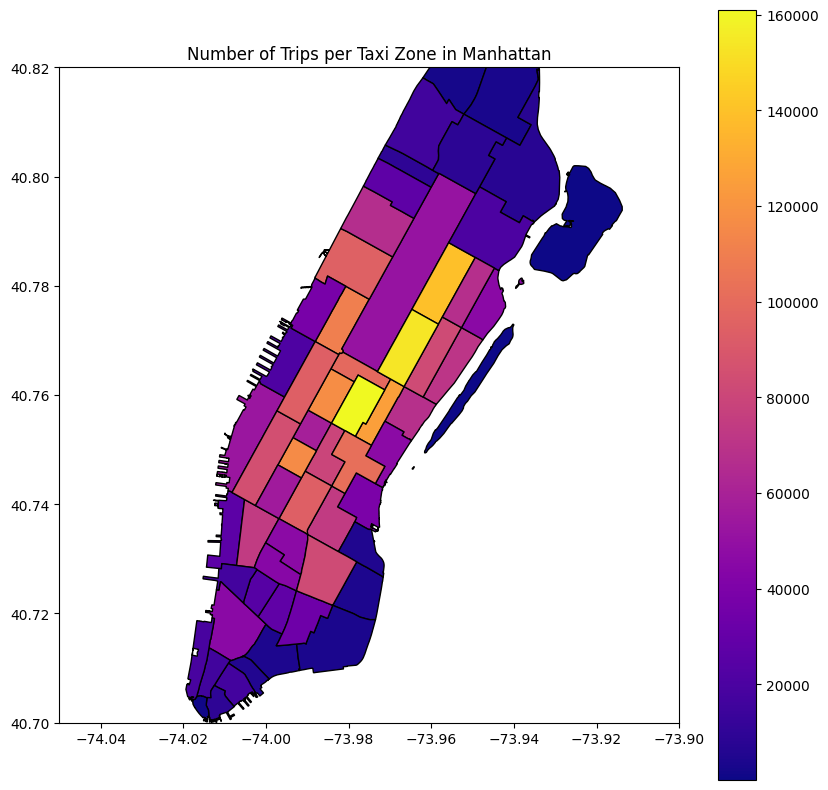
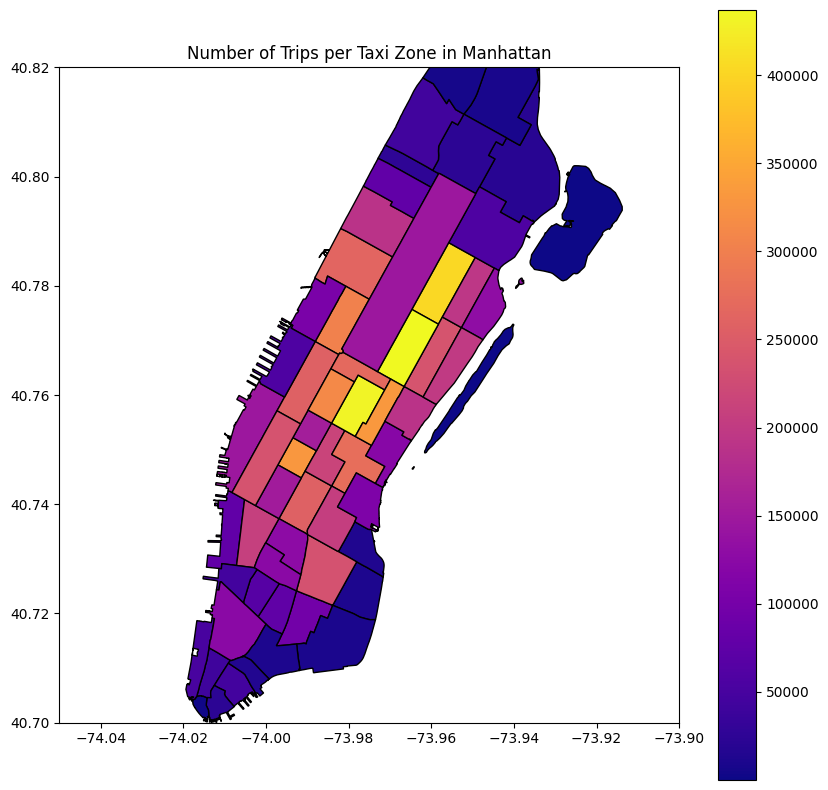
DATA-4945: complete lesson 8 partitions and backfills

diff --git a/dagster_university/dagster_essentials/dagster_essentials/assets/metrics.py b/dagster_university/dagster_essentials/dagster_essentials/assets/metrics.py
@@ -7,6 +7,7 @@ import pandas as pd
 import matplotlib.pyplot as plt
 
 from dagster_essentials.assets import constants
+from dagster_essentials.partitions import weekly_partition
 
 @dg.asset(
     deps=["taxi_trips", "taxi_zones"]
@@ -57,81 +58,48 @@ def manhattan_map() -> None:
     plt.savefig(constants.MANHATTAN_MAP_FILE_PATH, format="png", bbox_inches="tight")
     plt.close(fig)
 
-# @dg.asset(
-#     deps=["taxi_trips"],
-# )
-# def trips_by_week() -> None:
-#     query = """
-#         select
-#             (date_trunc('week', pickup_datetime) + interval 6 day)::date as period,
-#             count(*) as num_trips,
-#             sum(passenger_count) as passenger_count,
-#             round(sum(total_amount), 2) as total_amount,
-#             round(sum(trip_distance), 2) as trip_distance
-#         from trips
-#         where pickup_datetime >= '2023-03-01'
-#         group by period
-#         order by period
-#     """
-
-#     conn = backoff(
-#         fn=duckdb.connect,
-#         retry_on=(RuntimeError, duckdb.IOException),
-#         kwargs={
-#             "database": os.getenv("DUCKDB_DATABASE"),
-#         },
-#         max_retries=10,
-#     )
-#     trips_by_week = conn.execute(query).fetch_df()
-
-#     with open(constants.TRIPS_BY_WEEK_FILE_PATH, 'w') as output_file:
-#         output_file.write(trips_by_week.to_csv())
-    
-#Dagster solution
 @dg.asset(
-    deps=["taxi_trips"]
+    deps=["taxi_trips"],
+    partitions_def=weekly_partition
 )
-def trips_by_week(database: DuckDBResource) -> None:
+def trips_by_week(context: dg.AssetExecutionContext, database: DuckDBResource) -> None:
     """
-      A table of the number of taxi trips by week
+      The number of trips per week, aggregated by week.
     """
 
-    current_date = datetime.strptime(constants.START_DATE, constants.DATE_FORMAT)
-    end_date = datetime.strptime(constants.END_DATE, constants.DATE_FORMAT)
+    period_to_fetch = context.partition_key
 
-    result = pd.DataFrame()
+    # get all trips for the week
+    query = f"""
+        select vendor_id, total_amount, trip_distance, passenger_count
+        from trips
+        where pickup_datetime >= '{period_to_fetch}'
+            and pickup_datetime < '{period_to_fetch}'::date + interval '1 week'
+    """
 
-    while current_date < end_date:
-        current_date_str = current_date.strftime(constants.DATE_FORMAT)
-        query = f"""
-            select
-                vendor_id, total_amount, trip_distance, passenger_count
-            from trips
-            where date_trunc('week', pickup_datetime) = date_trunc('week', '{current_date_str}'::date)
-        """
+    with database.get_connection() as conn:
+        data_for_month = conn.execute(query).fetch_df()
 
-        with database.get_connection() as conn:
-            data_for_week = conn.execute(query).fetch_df()
-
-        aggregate = data_for_week.agg({
-            "vendor_id": "count",
-            "total_amount": "sum",
-            "trip_distance": "sum",
-            "passenger_count": "sum"
-        }).rename({"vendor_id": "num_trips"}).to_frame().T # type: ignore
-
-        aggregate["period"] = current_date
-
-        result = pd.concat([result, aggregate])
-
-        current_date += timedelta(days=7)
+    aggregate = data_for_month.agg({
+        "vendor_id": "count",
+        "total_amount": "sum",
+        "trip_distance": "sum",
+        "passenger_count": "sum"
+    }).rename({"vendor_id": "num_trips"}).to_frame().T # type: ignore
 
     # clean up the formatting of the dataframe
-    result['num_trips'] = result['num_trips'].astype(int)
-    result['passenger_count'] = result['passenger_count'].astype(int)
-    result['total_amount'] = result['total_amount'].round(2).astype(float)
-    result['trip_distance'] = result['trip_distance'].round(2).astype(float)
-    result = result[["period", "num_trips", "total_amount", "trip_distance", "passenger_count"]]
-    result = result.sort_values(by="period")
+    aggregate["period"] = period_to_fetch
+    aggregate['num_trips'] = aggregate['num_trips'].astype(int)
+    aggregate['passenger_count'] = aggregate['passenger_count'].astype(int)
+    aggregate['total_amount'] = aggregate['total_amount'].round(2).astype(float)
+    aggregate['trip_distance'] = aggregate['trip_distance'].round(2).astype(float)
+    aggregate = aggregate[["period", "num_trips", "total_amount", "trip_distance", "passenger_count"]]
 
-    result.to_csv(constants.TRIPS_BY_WEEK_FILE_PATH, index=False)
+    try:
+        # If the file already exists, append to it, but replace the existing month's data
+        existing = pd.read_csv(constants.TRIPS_BY_WEEK_FILE_PATH)
+        existing = existing[existing["period"] != period_to_fetch]
+        existing = pd.concat([existing, aggregate]).sort_values(by="period")
+        existing.to_csv(constants.TRIPS_BY_WEEK_FILE_PATH, index=False)
+    except FileNotFoundError:
+        aggregate.to_csv(constants.TRIPS_BY_WEEK_FILE_PATH, index=False)

diff --git a/dagster_university/dagster_essentials/dagster_essentials/assets/trips.py b/dagster_university/dagster_essentials/dagster_essentials/assets/trips.py
@@ -1,20 +1,28 @@
 import requests
+
 from dagster_essentials.assets import constants
+from dagster_essentials.partitions import monthly_partition
+
 from dagster_duckdb import DuckDBResource
 import dagster as dg
 
-@dg.asset
-def taxi_trips_file() -> None:
-    """
+@dg.asset(
+    partitions_def=monthly_partition
+)
+def taxi_trips_file(context: dg.AssetExecutionContext) -> None:
+  """
       The raw parquet files for the taxi trips dataset. Sourced from the NYC Open Data portal.
-    """
-    month_to_fetch = '2023-03'
-    raw_trips = requests.get(
-        f"https://d37ci6vzurychx.cloudfront.net/trip-data/yellow_tripdata_{month_to_fetch}.parquet"
-    )
+  """
 
-    with open(constants.TAXI_TRIPS_TEMPLATE_FILE_PATH.format(month_to_fetch), "wb") as output_file:
-        output_file.write(raw_trips.content)
+  partition_date_str = context.partition_key
+  month_to_fetch = partition_date_str[:-3]
+
+  raw_trips = requests.get(
+      f"https://d37ci6vzurychx.cloudfront.net/trip-data/yellow_tripdata_{month_to_fetch}.parquet"
+  )
+
+  with open(constants.TAXI_TRIPS_TEMPLATE_FILE_PATH.format(month_to_fetch), "wb") as output_file:
+      output_file.write(raw_trips.content)
 
 @dg.asset
 def taxi_zones_file() -> None:
@@ -29,27 +37,32 @@ def taxi_zones_file() -> None:
         output_file.write(raw_taxi_zones.content)    
 
 @dg.asset(
-    deps=["taxi_trips_file"]
+    deps=["taxi_trips_file"],
+    partitions_def=monthly_partition
 )
-def taxi_trips(database: DuckDBResource) -> None:
+def taxi_trips(context: dg.AssetExecutionContext, database: DuckDBResource) -> None:
     """
       The raw taxi trips dataset, loaded into a DuckDB database
     """
-    query = """
-        create or replace table trips as (
-          select
-            VendorID as vendor_id,
-            PULocationID as pickup_zone_id,
-            DOLocationID as dropoff_zone_id,
-            RatecodeID as rate_code_id,
-            payment_type as payment_type,
-            tpep_dropoff_datetime as dropoff_datetime,
-            tpep_pickup_datetime as pickup_datetime,
-            trip_distance as trip_distance,
-            passenger_count as passenger_count,
-            total_amount as total_amount
-          from 'data/raw/taxi_trips_2023-03.parquet'
-        );
+
+    partition_date_str = context.partition_key
+    month_to_fetch = partition_date_str[:-3]
+
+    query = f"""
+      create table if not exists trips (
+        vendor_id integer, pickup_zone_id integer, dropoff_zone_id integer,
+        rate_code_id double, payment_type integer, dropoff_datetime timestamp,
+        pickup_datetime timestamp, trip_distance double, passenger_count double,
+        total_amount double, partition_date varchar
+      );
+
+      delete from trips where partition_date = '{month_to_fetch}';
+
+      insert into trips
+      select
+        VendorID, PULocationID, DOLocationID, RatecodeID, payment_type, tpep_dropoff_datetime,
+        tpep_pickup_datetime, trip_distance, passenger_count, total_amount, '{month_to_fetch}' as partition_date
+      from '{constants.TAXI_TRIPS_TEMPLATE_FILE_PATH.format(month_to_fetch)}';
     """
 
     with database.get_connection() as conn:

diff --git a/dagster_university/dagster_essentials/dagster_essentials/jobs.py b/dagster_university/dagster_essentials/dagster_essentials/jobs.py
@@ -1,13 +1,16 @@
 import dagster as dg
+from dagster_essentials.partitions import monthly_partition, weekly_partition
 
 trips_by_week = dg.AssetSelection.assets("trips_by_week")
 
 trip_update_job = dg.define_asset_job(
     name="trip_update_job",
+    partitions_def=monthly_partition,
     selection=dg.AssetSelection.all() - trips_by_week
 )
 
 weekly_update_job = dg.define_asset_job(
     name="weekly_update_job",
+    partitions_def=weekly_partition,
     selection=trips_by_week,
 )

diff --git a/dagster_university/dagster_essentials/dagster_essentials/partitions.py b/dagster_university/dagster_essentials/dagster_essentials/partitions.py
@@ -1,0 +1,15 @@
+import dagster as dg
+from dagster_essentials.assets import constants
+
+start_date = constants.START_DATE
+end_date = constants.END_DATE
+
+monthly_partition = dg.MonthlyPartitionsDefinition(
+    start_date=start_date,
+    end_date=end_date
+)
+
+weekly_partition = dg.WeeklyPartitionsDefinition(
+    start_date=start_date,
+    end_date=end_date
+)
